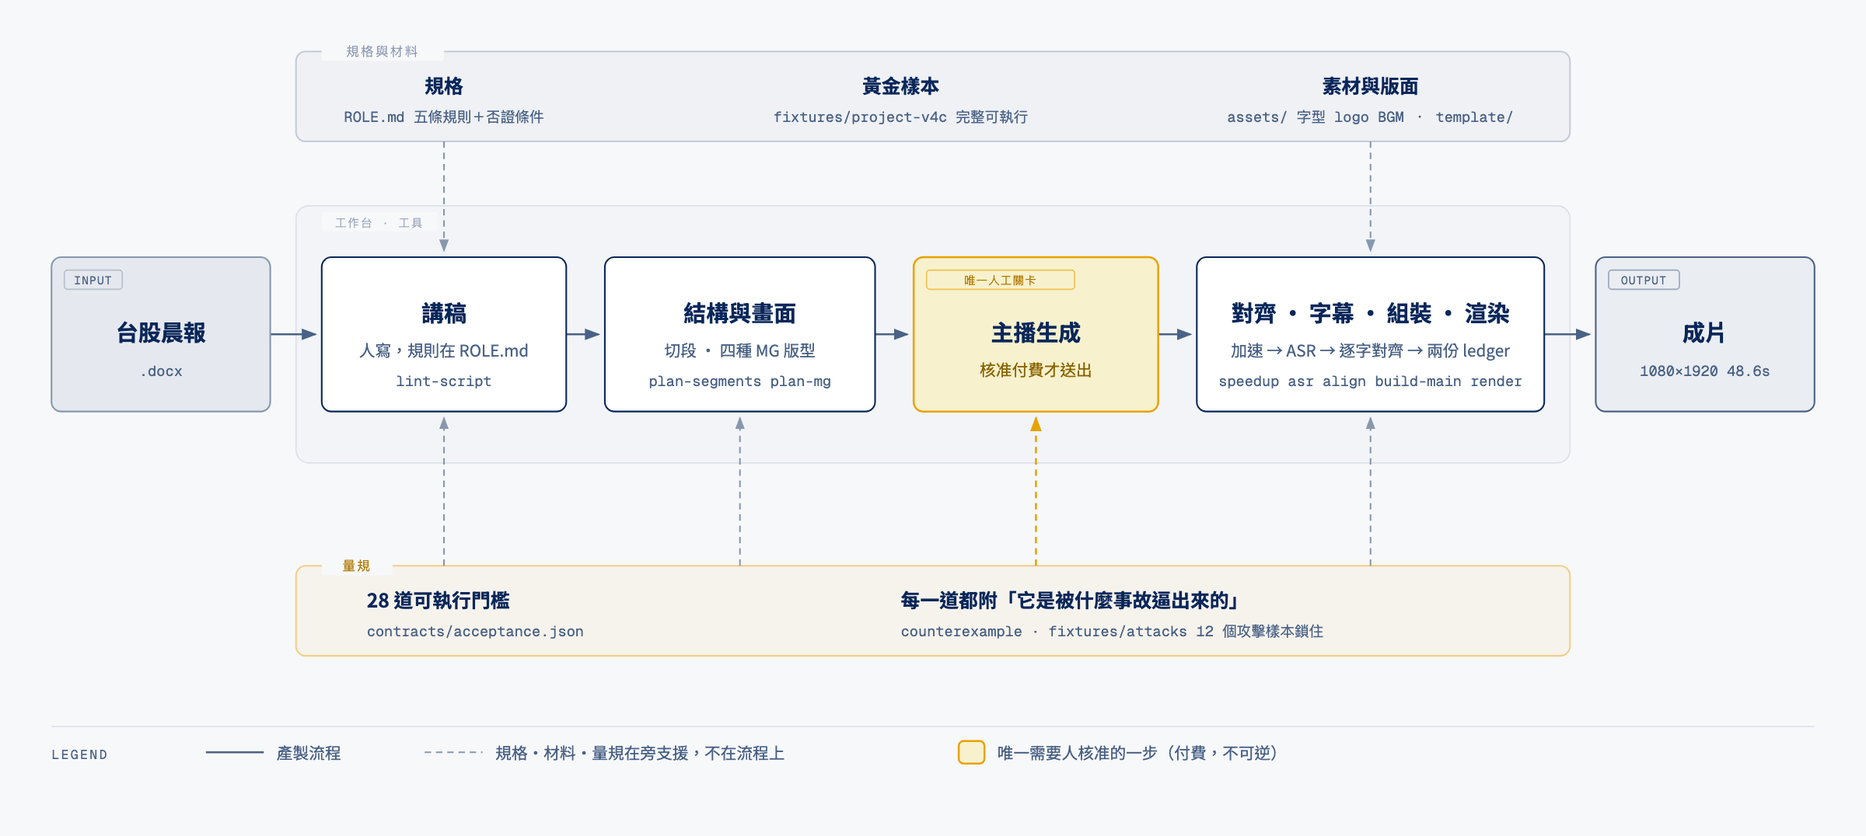
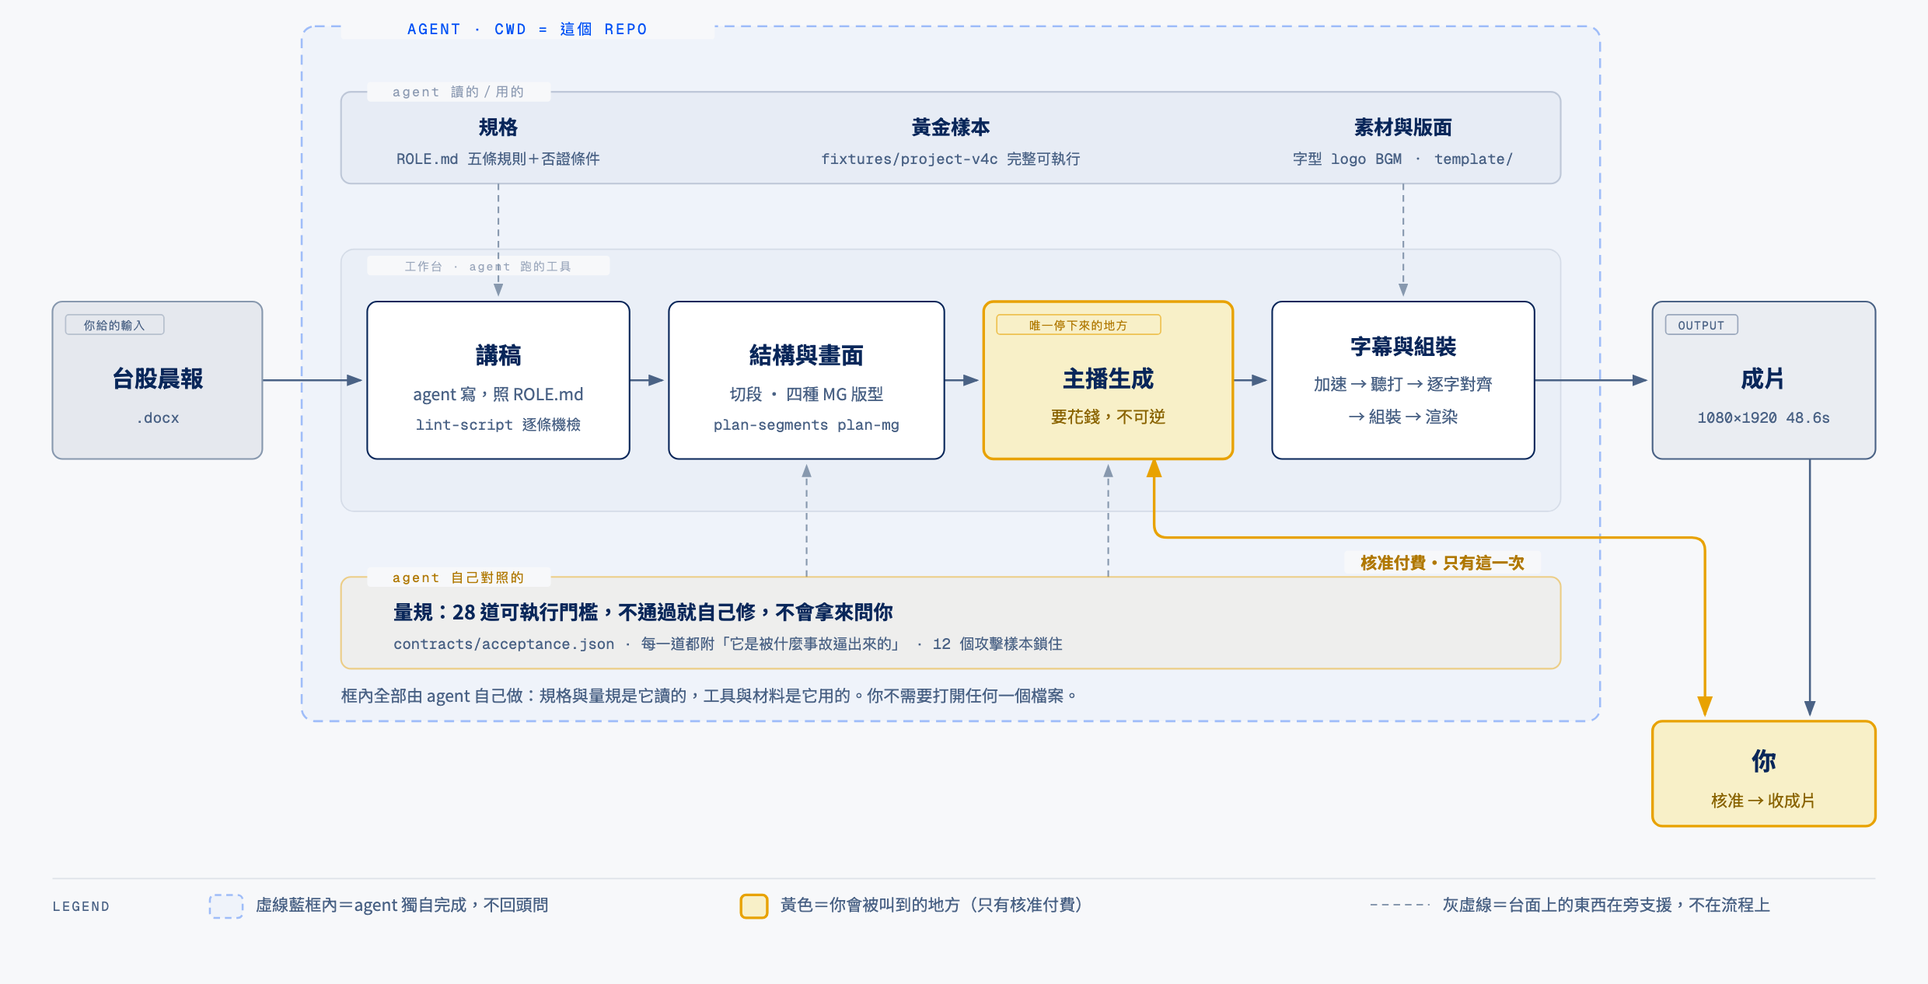
docs: 圖上標出 agent 的作業範圍，並加一段讀圖說明
使用者看圖的第一個問題是「agent 在哪個環節介入」。原本的圖有盒子有箭頭，
但從來沒說「誰在做」——所以看不出那些盒子是程式自己在跑，還是 agent 在driving。

加一個虛線藍框標示 agent 的作業範圍，把「你」畫成框外的一個節點，
只用一條黃線連到唯一的人工關卡，另一條線收成片。台面上三層的標籤
改成「agent 讀的／用的」「agent 跑的工具」「agent 自己對照的」，
框底直接寫「你不需要打開任何一個檔案」。

README 也補一段讀圖說明，因為圖再清楚也需要一句話告訴人從哪裡看起。

diff --git a/docs/architecture.html b/docs/architecture.html
@@ -2,111 +2,124 @@
 <html lang="zh-Hant"><head><meta charset="utf-8">
 <title>morning-brief-workbench 架構</title>
 <link href="https://fonts.googleapis.com/css2?family=Instrument+Serif:ital@0;1&family=Geist:wght@400;500;600&family=Geist+Mono:wght@400;500;600&family=Noto+Sans+TC:wght@400;500;700&display=swap" rel="stylesheet">
-<style>
-  body{margin:0;background:#F7F8FA;font-family:'Geist','Noto Sans TC',sans-serif}
-  .wrap{max-width:1200px;margin:0 auto;padding:2rem}
-  svg{width:100%;height:auto;display:block}
-</style></head><body><div class="wrap">
-<svg viewBox="0 0 1160 520" xmlns="http://www.w3.org/2000/svg" role="img" aria-labelledby="mbw-arch-title mbw-arch-desc">
+<style>body{margin:0;background:#F7F8FA;font-family:'Geist','Noto Sans TC',sans-serif}.wrap{max-width:1240px;margin:0 auto;padding:2rem}svg{width:100%;height:auto;display:block}</style>
+</head><body><div class="wrap">
+<svg viewBox="0 0 1176 600" xmlns="http://www.w3.org/2000/svg" role="img" aria-labelledby="mbw-arch-title mbw-arch-desc">
 <title id="mbw-arch-title">morning-brief-workbench 架構</title>
-<desc id="mbw-arch-desc">一篇台股晨報經過講稿、結構與畫面、主播生成、對齊字幕組裝渲染四個階段成為成片；台面上另有材料與量規兩層在旁支援；整條線只有主播生成那一步需要人核准付費。</desc>
+<desc id="mbw-arch-desc">你交出一篇台股晨報，agent 在這個 repo 底下獨自完成講稿、結構與畫面、主播生成、對齊字幕組裝渲染四個階段；台面上的規格、材料與量規全部由 agent 讀取與使用；整條線只在主播生成那一步停下來請你核准付費，成片完成後交付給你。</desc>
 <defs>
   <marker id="a" markerWidth="8" markerHeight="6" refX="7" refY="3" orient="auto"><polygon points="0 0, 8 3, 0 6" fill="#4A6285"/></marker>
   <marker id="aa" markerWidth="8" markerHeight="6" refX="7" refY="3" orient="auto"><polygon points="0 0, 8 3, 0 6" fill="#E8A200"/></marker>
+  <marker id="aaS" markerWidth="8" markerHeight="6" refX="1" refY="3" orient="auto"><polygon points="8 0, 0 3, 8 6" fill="#E8A200"/></marker>
   <marker id="as" markerWidth="8" markerHeight="6" refX="7" refY="3" orient="auto"><polygon points="0 0, 8 3, 0 6" fill="#8798AE"/></marker>
 </defs>
 <rect width="100%" height="100%" fill="#F7F8FA"/>
 
+<!-- AGENT 作業範圍 -->
+<rect x="184" y="16" width="792" height="424" rx="8" fill="rgba(1,82,245,0.03)" stroke="rgba(1,82,245,0.35)" stroke-width="1.2" stroke-dasharray="6,4"/>
+<rect x="208" y="10" width="228" height="14" rx="2" fill="#F7F8FA"/>
+<text x="322" y="21" fill="#0152F5" font-size="9" font-family="'Geist Mono',monospace" text-anchor="middle" letter-spacing="0.14em">AGENT · CWD = 這個 REPO</text>
+<text x="208" y="428" fill="#4A6285" font-size="10" font-family="'Noto Sans TC',sans-serif">框內全部由 agent 自己做：規格與量規是它讀的，工具與材料是它用的。你不需要打開任何一個檔案。</text>
+
 <!-- 規格與材料 bar -->
-<rect x="184" y="32" width="792" height="56" rx="6" fill="rgba(9,39,90,0.03)" stroke="rgba(9,39,90,0.20)" stroke-width="1"/>
-<rect x="200" y="26" width="76" height="12" rx="2" fill="#F7F8FA"/>
-<text x="238" y="35" fill="rgba(9,39,90,0.45)" font-size="8" font-family="'Geist Mono',monospace" text-anchor="middle" letter-spacing="0.14em">規格與材料</text>
-<text x="276" y="58" fill="#09275A" font-size="12" font-weight="600" font-family="'Noto Sans TC',sans-serif" text-anchor="middle">規格</text>
-<text x="276" y="76" fill="#4A6285" font-size="9" font-family="'Geist Mono',monospace" text-anchor="middle">ROLE.md 五條規則＋否證條件</text>
-<text x="560" y="58" fill="#09275A" font-size="12" font-weight="600" font-family="'Noto Sans TC',sans-serif" text-anchor="middle">黃金樣本</text>
-<text x="560" y="76" fill="#4A6285" font-size="9" font-family="'Geist Mono',monospace" text-anchor="middle">fixtures/project-v4c 完整可執行</text>
-<text x="852" y="58" fill="#09275A" font-size="12" font-weight="600" font-family="'Noto Sans TC',sans-serif" text-anchor="middle">素材與版面</text>
-<text x="852" y="76" fill="#4A6285" font-size="9" font-family="'Geist Mono',monospace" text-anchor="middle">assets/ 字型 logo BGM ・ template/</text>
+<rect x="208" y="56" width="744" height="56" rx="6" fill="rgba(9,39,90,0.03)" stroke="rgba(9,39,90,0.20)" stroke-width="1"/>
+<rect x="224" y="50" width="112" height="12" rx="2" fill="#F7F8FA"/>
+<text x="280" y="59" fill="rgba(9,39,90,0.45)" font-size="8" font-family="'Geist Mono',monospace" text-anchor="middle" letter-spacing="0.14em">agent 讀的／用的</text>
+<text x="304" y="82" fill="#09275A" font-size="12" font-weight="600" font-family="'Noto Sans TC',sans-serif" text-anchor="middle">規格</text>
+<text x="304" y="100" fill="#4A6285" font-size="9" font-family="'Geist Mono',monospace" text-anchor="middle">ROLE.md 五條規則＋否證條件</text>
+<text x="580" y="82" fill="#09275A" font-size="12" font-weight="600" font-family="'Noto Sans TC',sans-serif" text-anchor="middle">黃金樣本</text>
+<text x="580" y="100" fill="#4A6285" font-size="9" font-family="'Geist Mono',monospace" text-anchor="middle">fixtures/project-v4c 完整可執行</text>
+<text x="856" y="82" fill="#09275A" font-size="12" font-weight="600" font-family="'Noto Sans TC',sans-serif" text-anchor="middle">素材與版面</text>
+<text x="856" y="100" fill="#4A6285" font-size="9" font-family="'Geist Mono',monospace" text-anchor="middle">字型 logo BGM ・ template/</text>
 
-<!-- zone 工作台 -->
-<rect x="184" y="128" width="792" height="160" rx="8" fill="rgba(9,39,90,0.02)" stroke="rgba(9,39,90,0.10)" stroke-width="0.8"/>
-<rect x="200" y="132" width="72" height="12" rx="2" fill="#F7F8FA"/>
-<text x="236" y="141" fill="rgba(9,39,90,0.40)" font-size="7" font-family="'Geist Mono',monospace" text-anchor="middle" letter-spacing="0.14em">工作台 · 工具</text>
+<!-- zone -->
+<rect x="208" y="152" width="744" height="160" rx="8" fill="rgba(9,39,90,0.02)" stroke="rgba(9,39,90,0.10)" stroke-width="0.8"/>
+<rect x="224" y="156" width="148" height="12" rx="2" fill="#F7F8FA"/>
+<text x="298" y="165" fill="rgba(9,39,90,0.40)" font-size="7" font-family="'Geist Mono',monospace" text-anchor="middle" letter-spacing="0.14em">工作台 · agent 跑的工具</text>
 
-<!-- 主流程箭頭（同 y，直線） -->
-<line x1="168" y1="208" x2="196" y2="208" stroke="#4A6285" stroke-width="1.2" marker-end="url(#a)"/>
-<line x1="352" y1="208" x2="372" y2="208" stroke="#4A6285" stroke-width="1.2" marker-end="url(#a)"/>
-<line x1="544" y1="208" x2="564" y2="208" stroke="#4A6285" stroke-width="1.2" marker-end="url(#a)"/>
-<line x1="720" y1="208" x2="740" y2="208" stroke="#4A6285" stroke-width="1.2" marker-end="url(#a)"/>
-<line x1="960" y1="208" x2="988" y2="208" stroke="#4A6285" stroke-width="1.2" marker-end="url(#a)"/>
+<!-- 主流程 -->
+<line x1="160" y1="232" x2="220" y2="232" stroke="#4A6285" stroke-width="1.2" marker-end="url(#a)"/>
+<line x1="384" y1="232" x2="404" y2="232" stroke="#4A6285" stroke-width="1.2" marker-end="url(#a)"/>
+<line x1="576" y1="232" x2="596" y2="232" stroke="#4A6285" stroke-width="1.2" marker-end="url(#a)"/>
+<line x1="752" y1="232" x2="772" y2="232" stroke="#4A6285" stroke-width="1.2" marker-end="url(#a)"/>
+<line x1="936" y1="232" x2="1004" y2="232" stroke="#4A6285" stroke-width="1.2" marker-end="url(#a)"/>
 
-<!-- 材料 → 階段（虛線，垂直） -->
-<line x1="276" y1="88" x2="276" y2="156" stroke="#8798AE" stroke-width="1" stroke-dasharray="4,3" marker-end="url(#as)"/>
-<line x1="852" y1="88" x2="852" y2="156" stroke="#8798AE" stroke-width="1" stroke-dasharray="4,3" marker-end="url(#as)"/>
+<!-- 台面 → 階段（虛線） -->
+<line x1="304" y1="112" x2="304" y2="180" stroke="#8798AE" stroke-width="1" stroke-dasharray="4,3" marker-end="url(#as)"/>
+<line x1="856" y1="112" x2="856" y2="180" stroke="#8798AE" stroke-width="1" stroke-dasharray="4,3" marker-end="url(#as)"/>
+<line x1="492" y1="352" x2="492" y2="284" stroke="#8798AE" stroke-width="1" stroke-dasharray="4,3" marker-end="url(#as)"/>
+<line x1="676" y1="352" x2="676" y2="284" stroke="#8798AE" stroke-width="1" stroke-dasharray="4,3" marker-end="url(#as)"/>
 
-<!-- 量規 → 階段（虛線，垂直向上） -->
-<line x1="276" y1="352" x2="276" y2="260" stroke="#8798AE" stroke-width="1" stroke-dasharray="4,3" marker-end="url(#as)"/>
-<line x1="460" y1="352" x2="460" y2="260" stroke="#8798AE" stroke-width="1" stroke-dasharray="4,3" marker-end="url(#as)"/>
-<line x1="644" y1="352" x2="644" y2="260" stroke="#E8A200" stroke-width="1.2" stroke-dasharray="4,3" marker-end="url(#aa)"/>
-<line x1="852" y1="352" x2="852" y2="260" stroke="#8798AE" stroke-width="1" stroke-dasharray="4,3" marker-end="url(#as)"/>
+<!-- 唯一人工關卡：agent ↔ 你 -->
+<path d="M 704,280 V 320 Q 704,328 712,328 H 1032 Q 1040,328 1040,336 V 436"
+      fill="none" stroke="#E8A200" stroke-width="1.6" marker-end="url(#aa)" marker-start="url(#aaS)"/>
+<rect x="820" y="336" width="120" height="14" rx="2" fill="#F7F8FA"/>
+<text x="880" y="347" fill="#B07800" font-size="10" font-weight="600" font-family="'Noto Sans TC',sans-serif" text-anchor="middle">核准付費・只有這一次</text>
+
+<!-- 交付 -->
+<line x1="1104" y1="280" x2="1104" y2="436" stroke="#4A6285" stroke-width="1.2" marker-end="url(#a)"/>
 
 <!-- 節點 -->
-<rect x="32" y="160" width="136" height="96" rx="6" fill="#F7F8FA"/>
-<rect x="32" y="160" width="136" height="96" rx="6" fill="rgba(74,98,133,0.10)" stroke="#8798AE" stroke-width="1"/>
-<rect x="40" y="168" width="36" height="12" rx="2" fill="none" stroke="rgba(135,152,174,0.5)" stroke-width="0.8"/>
-<text x="58" y="177" fill="#4A6285" font-size="7" font-family="'Geist Mono',monospace" text-anchor="middle" letter-spacing="0.08em">INPUT</text>
-<text x="100" y="212" fill="#09275A" font-size="14" font-weight="600" font-family="'Noto Sans TC',sans-serif" text-anchor="middle">台股晨報</text>
-<text x="100" y="234" fill="#4A6285" font-size="9" font-family="'Geist Mono',monospace" text-anchor="middle">.docx</text>
+<rect x="32" y="184" width="128" height="96" rx="6" fill="#F7F8FA"/>
+<rect x="32" y="184" width="128" height="96" rx="6" fill="rgba(74,98,133,0.10)" stroke="#8798AE" stroke-width="1"/>
+<rect x="40" y="192" width="60" height="12" rx="2" fill="none" stroke="rgba(135,152,174,0.5)" stroke-width="0.8"/>
+<text x="70" y="201" fill="#4A6285" font-size="7" font-family="'Geist Mono',monospace" text-anchor="middle" letter-spacing="0.08em">你給的輸入</text>
+<text x="96" y="236" fill="#09275A" font-size="14" font-weight="600" font-family="'Noto Sans TC',sans-serif" text-anchor="middle">台股晨報</text>
+<text x="96" y="258" fill="#4A6285" font-size="9" font-family="'Geist Mono',monospace" text-anchor="middle">.docx</text>
 
-<rect x="200" y="160" width="152" height="96" rx="6" fill="#F7F8FA"/>
-<rect x="200" y="160" width="152" height="96" rx="6" fill="#ffffff" stroke="#09275A" stroke-width="1"/>
-<text x="276" y="200" fill="#09275A" font-size="14" font-weight="600" font-family="'Noto Sans TC',sans-serif" text-anchor="middle">講稿</text>
-<text x="276" y="222" fill="#4A6285" font-size="10" font-family="'Noto Sans TC',sans-serif" text-anchor="middle">人寫，規則在 ROLE.md</text>
-<text x="276" y="240" fill="#4A6285" font-size="9" font-family="'Geist Mono',monospace" text-anchor="middle">lint-script</text>
+<rect x="224" y="184" width="160" height="96" rx="6" fill="#F7F8FA"/>
+<rect x="224" y="184" width="160" height="96" rx="6" fill="#ffffff" stroke="#09275A" stroke-width="1"/>
+<text x="304" y="222" fill="#09275A" font-size="14" font-weight="600" font-family="'Noto Sans TC',sans-serif" text-anchor="middle">講稿</text>
+<text x="304" y="244" fill="#4A6285" font-size="10" font-family="'Noto Sans TC',sans-serif" text-anchor="middle">agent 寫，照 ROLE.md</text>
+<text x="304" y="262" fill="#4A6285" font-size="9" font-family="'Geist Mono',monospace" text-anchor="middle">lint-script 逐條機檢</text>
 
-<rect x="376" y="160" width="168" height="96" rx="6" fill="#F7F8FA"/>
-<rect x="376" y="160" width="168" height="96" rx="6" fill="#ffffff" stroke="#09275A" stroke-width="1"/>
-<text x="460" y="200" fill="#09275A" font-size="14" font-weight="600" font-family="'Noto Sans TC',sans-serif" text-anchor="middle">結構與畫面</text>
-<text x="460" y="222" fill="#4A6285" font-size="10" font-family="'Noto Sans TC',sans-serif" text-anchor="middle">切段 · 四種 MG 版型</text>
-<text x="460" y="240" fill="#4A6285" font-size="9" font-family="'Geist Mono',monospace" text-anchor="middle">plan-segments  plan-mg</text>
+<rect x="408" y="184" width="168" height="96" rx="6" fill="#F7F8FA"/>
+<rect x="408" y="184" width="168" height="96" rx="6" fill="#ffffff" stroke="#09275A" stroke-width="1"/>
+<text x="492" y="222" fill="#09275A" font-size="14" font-weight="600" font-family="'Noto Sans TC',sans-serif" text-anchor="middle">結構與畫面</text>
+<text x="492" y="244" fill="#4A6285" font-size="10" font-family="'Noto Sans TC',sans-serif" text-anchor="middle">切段 · 四種 MG 版型</text>
+<text x="492" y="262" fill="#4A6285" font-size="9" font-family="'Geist Mono',monospace" text-anchor="middle">plan-segments  plan-mg</text>
 
-<rect x="568" y="160" width="152" height="96" rx="6" fill="#F7F8FA"/>
-<rect x="568" y="160" width="152" height="96" rx="6" fill="rgba(255,212,0,0.18)" stroke="#E8A200" stroke-width="1.2"/>
-<rect x="576" y="168" width="92" height="12" rx="2" fill="none" stroke="rgba(232,162,0,0.6)" stroke-width="0.8"/>
-<text x="622" y="177" fill="#B07800" font-size="7" font-family="'Geist Mono',monospace" text-anchor="middle" letter-spacing="0.08em">唯一人工關卡</text>
-<text x="644" y="212" fill="#09275A" font-size="14" font-weight="600" font-family="'Noto Sans TC',sans-serif" text-anchor="middle">主播生成</text>
-<text x="644" y="234" fill="#8A6400" font-size="10" font-family="'Noto Sans TC',sans-serif" text-anchor="middle">核准付費才送出</text>
+<rect x="600" y="184" width="152" height="96" rx="6" fill="#F7F8FA"/>
+<rect x="600" y="184" width="152" height="96" rx="6" fill="rgba(255,212,0,0.20)" stroke="#E8A200" stroke-width="1.6"/>
+<rect x="608" y="192" width="100" height="12" rx="2" fill="none" stroke="rgba(232,162,0,0.6)" stroke-width="0.8"/>
+<text x="658" y="201" fill="#B07800" font-size="7" font-family="'Geist Mono',monospace" text-anchor="middle" letter-spacing="0.08em">唯一停下來的地方</text>
+<text x="676" y="236" fill="#09275A" font-size="14" font-weight="600" font-family="'Noto Sans TC',sans-serif" text-anchor="middle">主播生成</text>
+<text x="676" y="258" fill="#8A6400" font-size="10" font-family="'Noto Sans TC',sans-serif" text-anchor="middle">要花錢，不可逆</text>
 
-<rect x="744" y="160" width="216" height="96" rx="6" fill="#F7F8FA"/>
-<rect x="744" y="160" width="216" height="96" rx="6" fill="#ffffff" stroke="#09275A" stroke-width="1"/>
-<text x="852" y="200" fill="#09275A" font-size="14" font-weight="600" font-family="'Noto Sans TC',sans-serif" text-anchor="middle">對齊 · 字幕 · 組裝 · 渲染</text>
-<text x="852" y="222" fill="#4A6285" font-size="10" font-family="'Noto Sans TC',sans-serif" text-anchor="middle">加速 → ASR → 逐字對齊 → 兩份 ledger</text>
-<text x="852" y="240" fill="#4A6285" font-size="9" font-family="'Geist Mono',monospace" text-anchor="middle">speedup  asr  align  build-main  render</text>
+<rect x="776" y="184" width="160" height="96" rx="6" fill="#F7F8FA"/>
+<rect x="776" y="184" width="160" height="96" rx="6" fill="#ffffff" stroke="#09275A" stroke-width="1"/>
+<text x="856" y="216" fill="#09275A" font-size="13" font-weight="600" font-family="'Noto Sans TC',sans-serif" text-anchor="middle">字幕與組裝</text>
+<text x="856" y="238" fill="#4A6285" font-size="10" font-family="'Noto Sans TC',sans-serif" text-anchor="middle">加速 → 聽打 → 逐字對齊</text>
+<text x="856" y="258" fill="#4A6285" font-size="10" font-family="'Noto Sans TC',sans-serif" text-anchor="middle">→ 組裝 → 渲染</text>
 
-<rect x="992" y="160" width="136" height="96" rx="6" fill="#F7F8FA"/>
-<rect x="992" y="160" width="136" height="96" rx="6" fill="rgba(9,39,90,0.05)" stroke="#4A6285" stroke-width="1"/>
-<rect x="1000" y="168" width="44" height="12" rx="2" fill="none" stroke="rgba(74,98,133,0.5)" stroke-width="0.8"/>
-<text x="1022" y="177" fill="#4A6285" font-size="7" font-family="'Geist Mono',monospace" text-anchor="middle" letter-spacing="0.08em">OUTPUT</text>
-<text x="1060" y="212" fill="#09275A" font-size="14" font-weight="600" font-family="'Noto Sans TC',sans-serif" text-anchor="middle">成片</text>
-<text x="1060" y="234" fill="#4A6285" font-size="9" font-family="'Geist Mono',monospace" text-anchor="middle">1080×1920  48.6s</text>
+<rect x="1008" y="184" width="136" height="96" rx="6" fill="#F7F8FA"/>
+<rect x="1008" y="184" width="136" height="96" rx="6" fill="rgba(9,39,90,0.05)" stroke="#4A6285" stroke-width="1"/>
+<rect x="1016" y="192" width="44" height="12" rx="2" fill="none" stroke="rgba(74,98,133,0.5)" stroke-width="0.8"/>
+<text x="1038" y="201" fill="#4A6285" font-size="7" font-family="'Geist Mono',monospace" text-anchor="middle" letter-spacing="0.08em">OUTPUT</text>
+<text x="1076" y="236" fill="#09275A" font-size="14" font-weight="600" font-family="'Noto Sans TC',sans-serif" text-anchor="middle">成片</text>
+<text x="1076" y="258" fill="#4A6285" font-size="9" font-family="'Geist Mono',monospace" text-anchor="middle">1080×1920  48.6s</text>
 
 <!-- 量規 bar -->
-<rect x="184" y="352" width="792" height="56" rx="6" fill="rgba(232,162,0,0.05)" stroke="rgba(232,162,0,0.45)" stroke-width="1"/>
-<rect x="200" y="346" width="44" height="12" rx="2" fill="#F7F8FA"/>
-<text x="222" y="355" fill="#B07800" font-size="8" font-family="'Geist Mono',monospace" text-anchor="middle" letter-spacing="0.14em">量規</text>
-<text x="228" y="378" fill="#09275A" font-size="12" font-weight="600" font-family="'Noto Sans TC',sans-serif">28 道可執行門檻</text>
-<text x="228" y="396" fill="#4A6285" font-size="9" font-family="'Geist Mono',monospace">contracts/acceptance.json</text>
-<text x="560" y="378" fill="#09275A" font-size="12" font-weight="600" font-family="'Noto Sans TC',sans-serif">每一道都附「它是被什麼事故逼出來的」</text>
-<text x="560" y="396" fill="#4A6285" font-size="9" font-family="'Geist Mono',monospace">counterexample  ·  fixtures/attacks 12 個攻擊樣本鎖住</text>
+<rect x="208" y="352" width="744" height="56" rx="6" fill="rgba(232,162,0,0.05)" stroke="rgba(232,162,0,0.45)" stroke-width="1"/>
+<rect x="224" y="346" width="112" height="12" rx="2" fill="#F7F8FA"/>
+<text x="280" y="355" fill="#B07800" font-size="8" font-family="'Geist Mono',monospace" text-anchor="middle" letter-spacing="0.14em">agent 自己對照的</text>
+<text x="240" y="378" fill="#09275A" font-size="12" font-weight="600" font-family="'Noto Sans TC',sans-serif">量規：28 道可執行門檻，不通過就自己修，不會拿來問你</text>
+<text x="240" y="396" fill="#4A6285" font-size="9" font-family="'Geist Mono',monospace">contracts/acceptance.json  ·  每一道都附「它是被什麼事故逼出來的」  ·  12 個攻擊樣本鎖住</text>
+
+<!-- 你 -->
+<rect x="1008" y="440" width="136" height="64" rx="6" fill="#F7F8FA"/>
+<rect x="1008" y="440" width="136" height="64" rx="6" fill="rgba(255,212,0,0.20)" stroke="#E8A200" stroke-width="1.6"/>
+<text x="1076" y="470" fill="#09275A" font-size="15" font-weight="700" font-family="'Noto Sans TC',sans-serif" text-anchor="middle">你</text>
+<text x="1076" y="492" fill="#8A6400" font-size="10" font-family="'Noto Sans TC',sans-serif" text-anchor="middle">核准 → 收成片</text>
 
 <!-- legend -->
-<line x1="32" y1="452" x2="1128" y2="452" stroke="rgba(9,39,90,0.10)" stroke-width="0.8"/>
-<text x="32" y="472" fill="#4A6285" font-size="8" font-family="'Geist Mono',monospace" letter-spacing="0.14em">LEGEND</text>
-<line x1="128" y1="468" x2="164" y2="468" stroke="#4A6285" stroke-width="1.2"/>
-<text x="172" y="472" fill="#4A6285" font-size="10" font-family="'Noto Sans TC',sans-serif">產製流程</text>
-<line x1="264" y1="468" x2="300" y2="468" stroke="#8798AE" stroke-width="1" stroke-dasharray="4,3"/>
-<text x="308" y="472" fill="#4A6285" font-size="10" font-family="'Noto Sans TC',sans-serif">規格・材料・量規在旁支援，不在流程上</text>
-<rect x="596" y="461" width="16" height="14" rx="3" fill="rgba(255,212,0,0.18)" stroke="#E8A200" stroke-width="1.2"/>
-<text x="620" y="472" fill="#4A6285" font-size="10" font-family="'Noto Sans TC',sans-serif">唯一需要人核准的一步（付費，不可逆）</text>
+<line x1="32" y1="536" x2="1144" y2="536" stroke="rgba(9,39,90,0.10)" stroke-width="0.8"/>
+<text x="32" y="556" fill="#4A6285" font-size="8" font-family="'Geist Mono',monospace" letter-spacing="0.14em">LEGEND</text>
+<rect x="128" y="546" width="20" height="14" rx="3" fill="rgba(1,82,245,0.03)" stroke="rgba(1,82,245,0.35)" stroke-width="1.2" stroke-dasharray="4,3"/>
+<text x="156" y="556" fill="#4A6285" font-size="10" font-family="'Noto Sans TC',sans-serif">虛線藍框內＝agent 獨自完成，不回頭問</text>
+<rect x="452" y="546" width="16" height="14" rx="3" fill="rgba(255,212,0,0.20)" stroke="#E8A200" stroke-width="1.6"/>
+<text x="476" y="556" fill="#4A6285" font-size="10" font-family="'Noto Sans TC',sans-serif">黃色＝你會被叫到的地方（只有核准付費）</text>
+<line x1="836" y1="552" x2="872" y2="552" stroke="#8798AE" stroke-width="1" stroke-dasharray="4,3"/>
+<text x="880" y="556" fill="#4A6285" font-size="10" font-family="'Noto Sans TC',sans-serif">灰虛線＝台面上的東西在旁支援，不在流程上</text>
 </svg>
 </div></body></html>

diff --git a/README.md b/README.md
@@ -10,6 +10,13 @@
 
 ![架構圖](docs/architecture.png)
 
+**這張圖怎麼看**：**虛線藍框內全部是 agent 在做。** 你交出一份晨報，agent 在框裡讀規格、
+跑工具、用材料、對照量規，一路做到成片。**它只會在一個地方叫你——主播生成那一步**，
+因為那要花錢而且不可逆。其餘任何不確定它都自己判斷後繼續，不會回頭問。
+
+台面上那三層（規格／材料／量規）**都是 agent 讀的與用的，不是給你看的**。
+你不需要打開任何一個檔案，除非你想改規則——那時才去動 `ROLE.md`。
+
 ---
 
 ## 為什麼會做不穩
